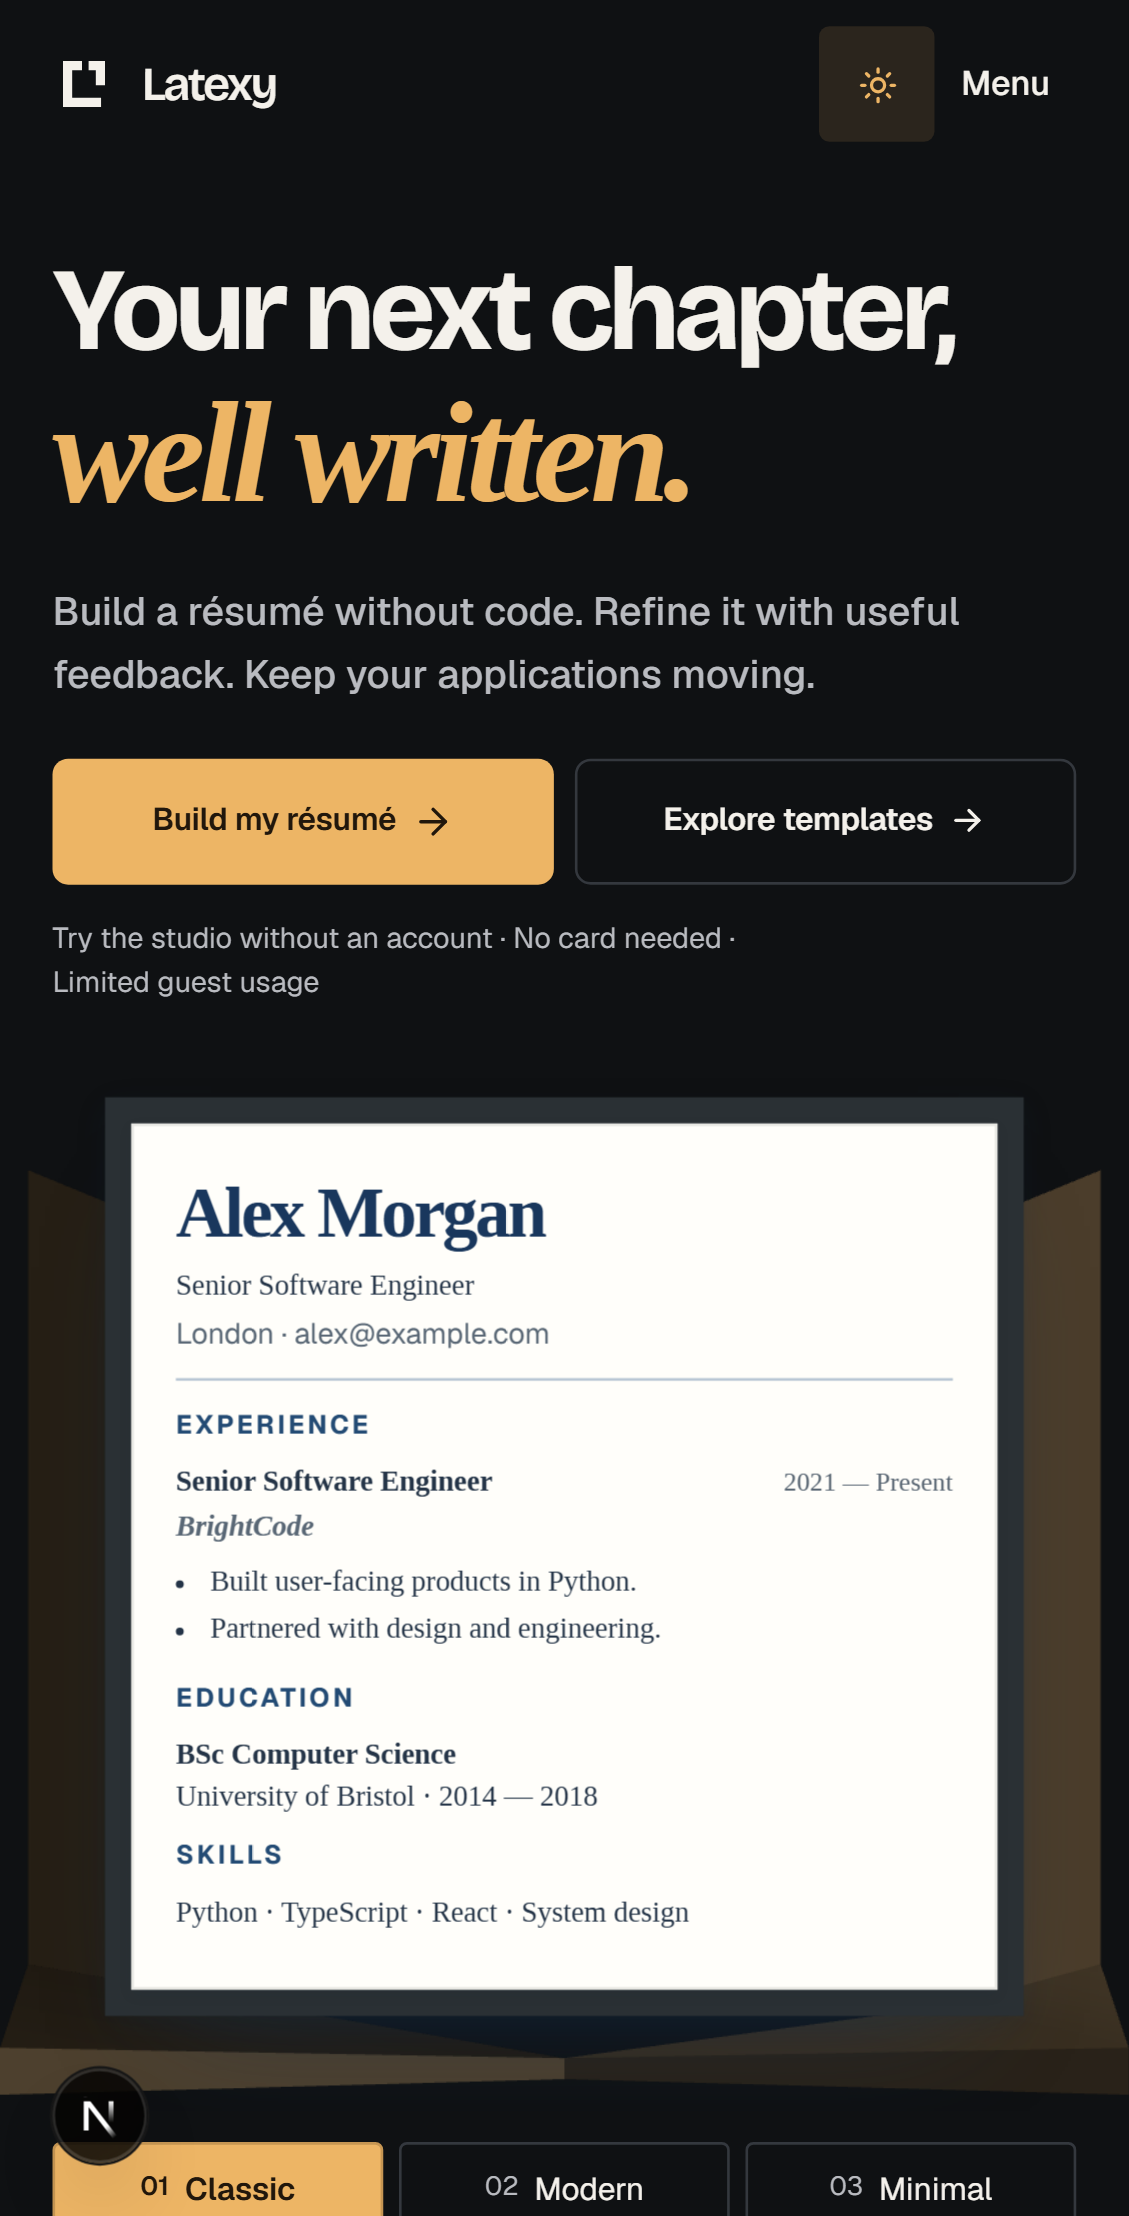
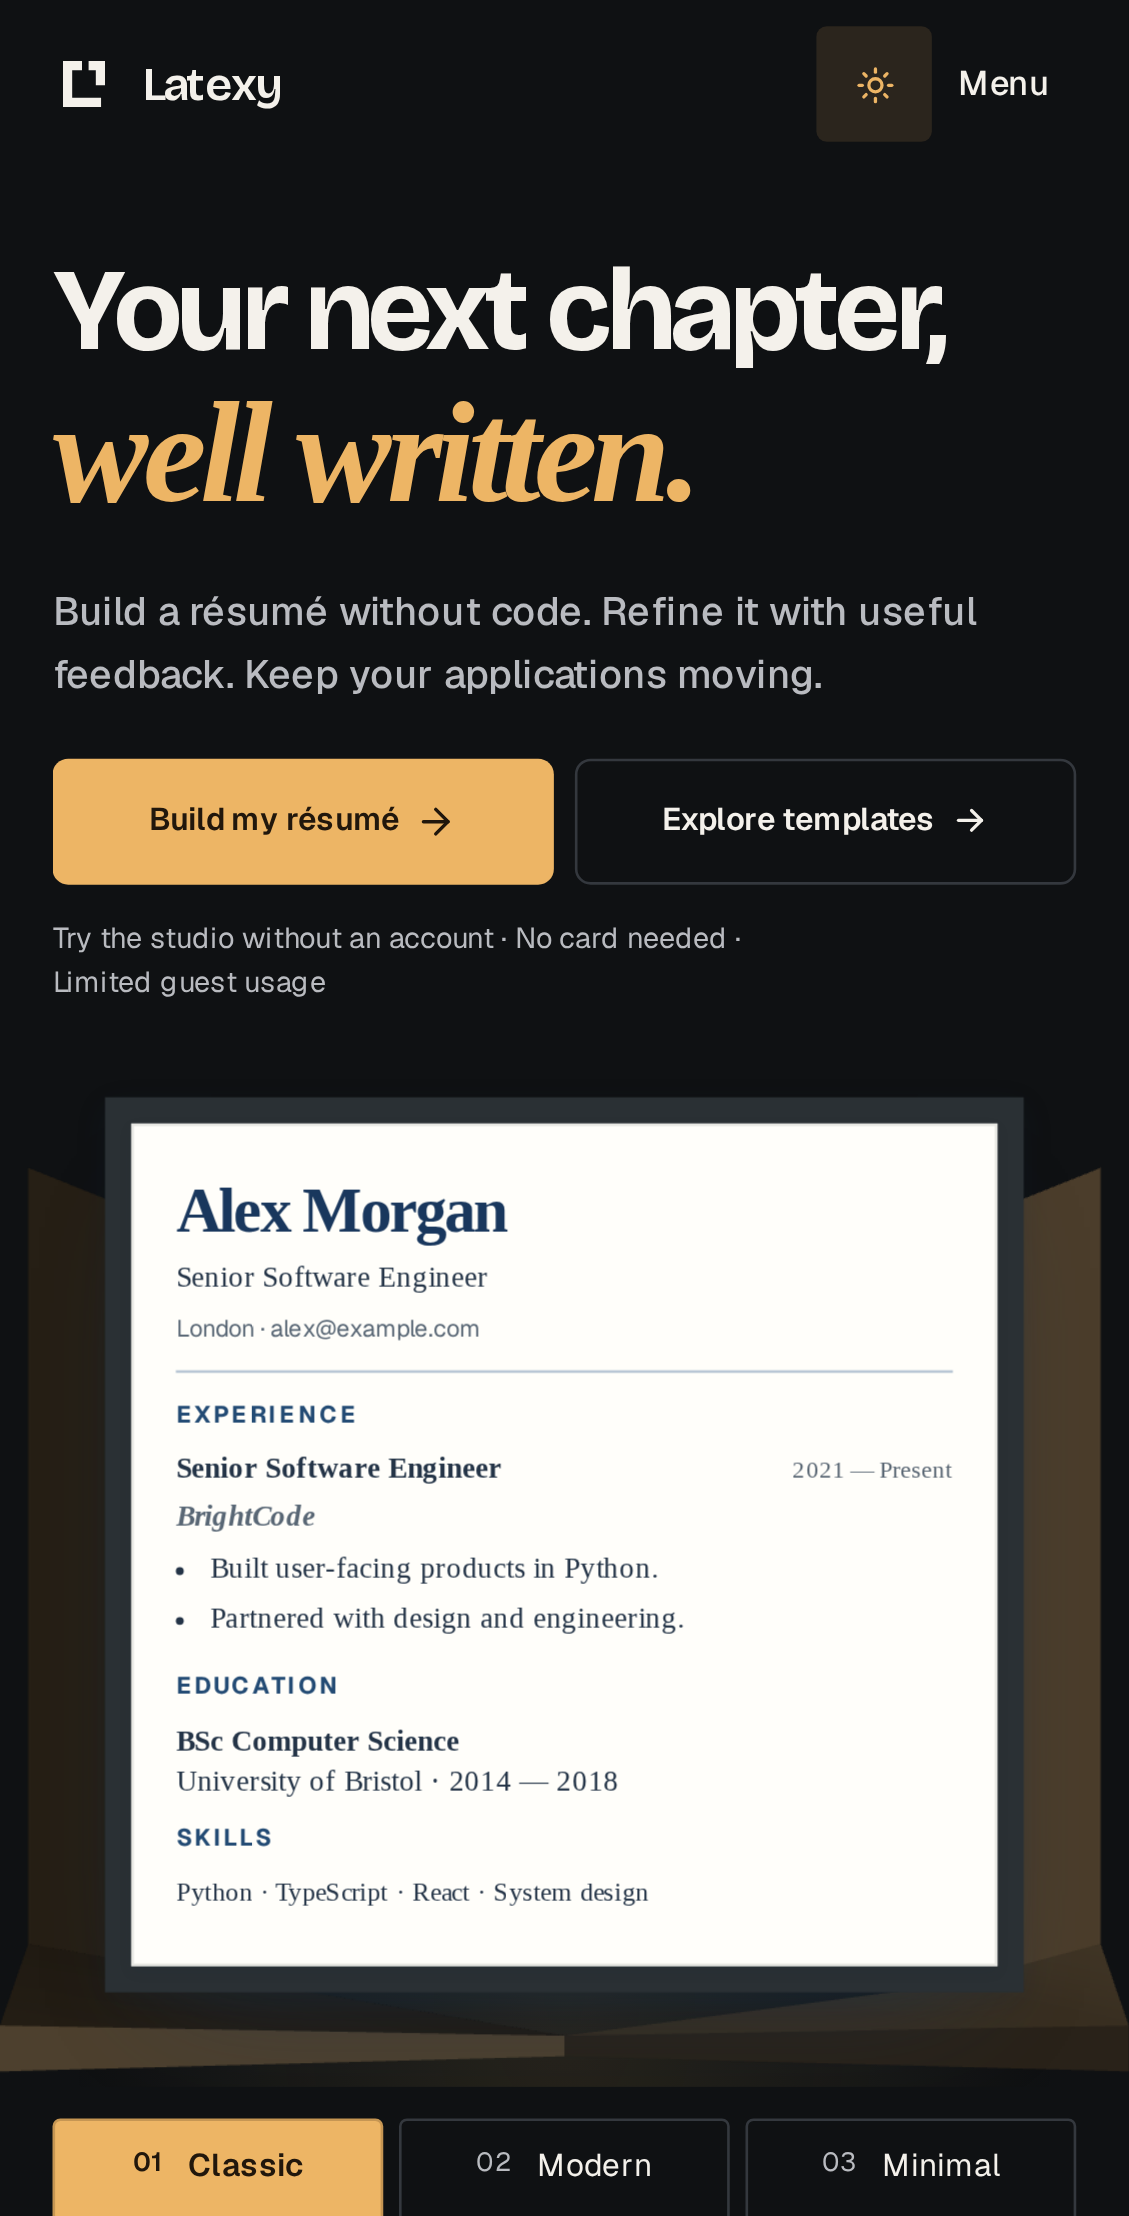
Replace review captures with verified production CI renders

diff --git a/design-qa.md b/design-qa.md
@@ -29,17 +29,17 @@ Full-view comparisons and focused hero, builder, ATS, tailoring, board, LaTeX, F
 
 ## Verification
 
-Local ESLint and TypeScript checks pass. The final targeted browser run reports 9 passed, 3 device-inapplicable skips, 0 failed, 0 flaky. Production compilation and type checking completed locally; Windows standalone packaging requires symlinks unavailable in this session. Linux CI remains the packaging gate.
+Local ESLint and TypeScript checks pass. The final targeted browser run reports 9 passed, 3 device-inapplicable skips, 0 failed, 0 flaky. Linux CI run `38783439606` passes the production build, lint, cross-browser quality, real compile/preview and security checks for source commit `5bbf7fa80dd4f924c392fc0c75768f81e07a6715`. The quality report records 195 total: 185 passed, 10 device-inapplicable skips, 0 failed and 0 flaky. Vercel also deployed that revision successfully. Windows local standalone packaging is limited by unavailable symlink permissions; no packaging or test gate was changed to work around it.
 
 ## Remaining review notes
 
 The native scene has simpler paper shadows than the photographic reference (P3). Resume text and layout details are genuine HTML and differ from the raster mockup. The previously approved footer remains intentionally larger than the original reference footer. These are disclosed differences, not a claim of pixel-identical reproduction or user aesthetic approval.
 
-Final evidence links and CI status are added with the committed screenshots.
[1 lines of base64/hex data omitted]
 
 ## Saved evidence
 
-See docs/design/landing-art-direction/README.md and provenance.json. The twelve post-commit screenshots are actual development renders, with the Next indicator retained. The Linux production frontend build and Vercel deployment passed for source 5bbf7fa8; broader browser/real-compile CI is still running. The QA pass assesses visual/interaction readiness for user review, not user aesthetic approval or permission to merge.
+See [screenshots](docs/design/landing-art-direction/README.md) and [provenance](docs/design/landing-art-direction/provenance.json). The twelve post-commit screenshots are actual production-bundle renders from source CI; they supersede the earlier development captures. Hero crops are documented derivatives of full-page screenshots; the other images are unchanged extracted PNGs. This evidence branch has exactly the same frontend tree as the tested PR: `de1c3ded008dd226dfb446322068e4563166e575`. The QA pass assesses visual/interaction readiness for user review, not user aesthetic approval or permission to merge.
 
 final result: passed
 

diff --git a/docs/design/landing-art-direction/README.md b/docs/design/landing-art-direction/README.md
@@ -3,14 +3,14 @@
 Actual browser screenshots captured after source commit `5bbf7fa80dd4f924c392fc0c75768f81e07a6715`.
 
 - Source frontend tree: `de1c3ded008dd226dfb446322068e4563166e575`.
-- Local Next development preview; the small Next development indicator is visible. It was not edited out. These are not generated mockups or screenshots of the reference image.
+- Actual production-bundle renders from Linux CI run `38783439606`, artifact `11998571304`. These are not generated mockups or screenshots of the reference image.
 - Anonymous HTTP fixtures supply product access; all sample documents are synthetic.
 - Desktop: 1440 × 1000 CSS viewport, 1x density. Full-page images preserve the original screenshot. `hero-*.png` are the top 1000px cropped from those actual full-page screenshots.
 - Mobile first screens: 320/390/430 × 844 CSS viewports at the Pixel 7 device density. Full mobile pages use the project's Pixel 7 viewport.
 - `provenance.json` records original pixel dimensions and SHA-256 digests.
 - Source/render comparisons and the section review are described in the root `design-qa.md` on this evidence branch.
 
-The Linux production frontend build and Vercel deployment passed for this source commit. The full cross-browser and real-compile CI jobs were still running when this evidence was prepared. Keeping the review files on a separate evidence branch avoids cancelling those source checks.
+The production frontend build, Vercel deployment, cross-browser quality and real compile/preview checks passed for this source commit. The quality report records 185 passed, 10 device-inapplicable skips, zero failed and zero flaky cases across Chromium, Firefox and WebKit desktop/phone projects. The downloaded artifact's SHA-256 was verified before extracting the screenshots. Review files are kept on a separate evidence branch; the tested frontend tree is unchanged.
 
 ## Desktop
 
